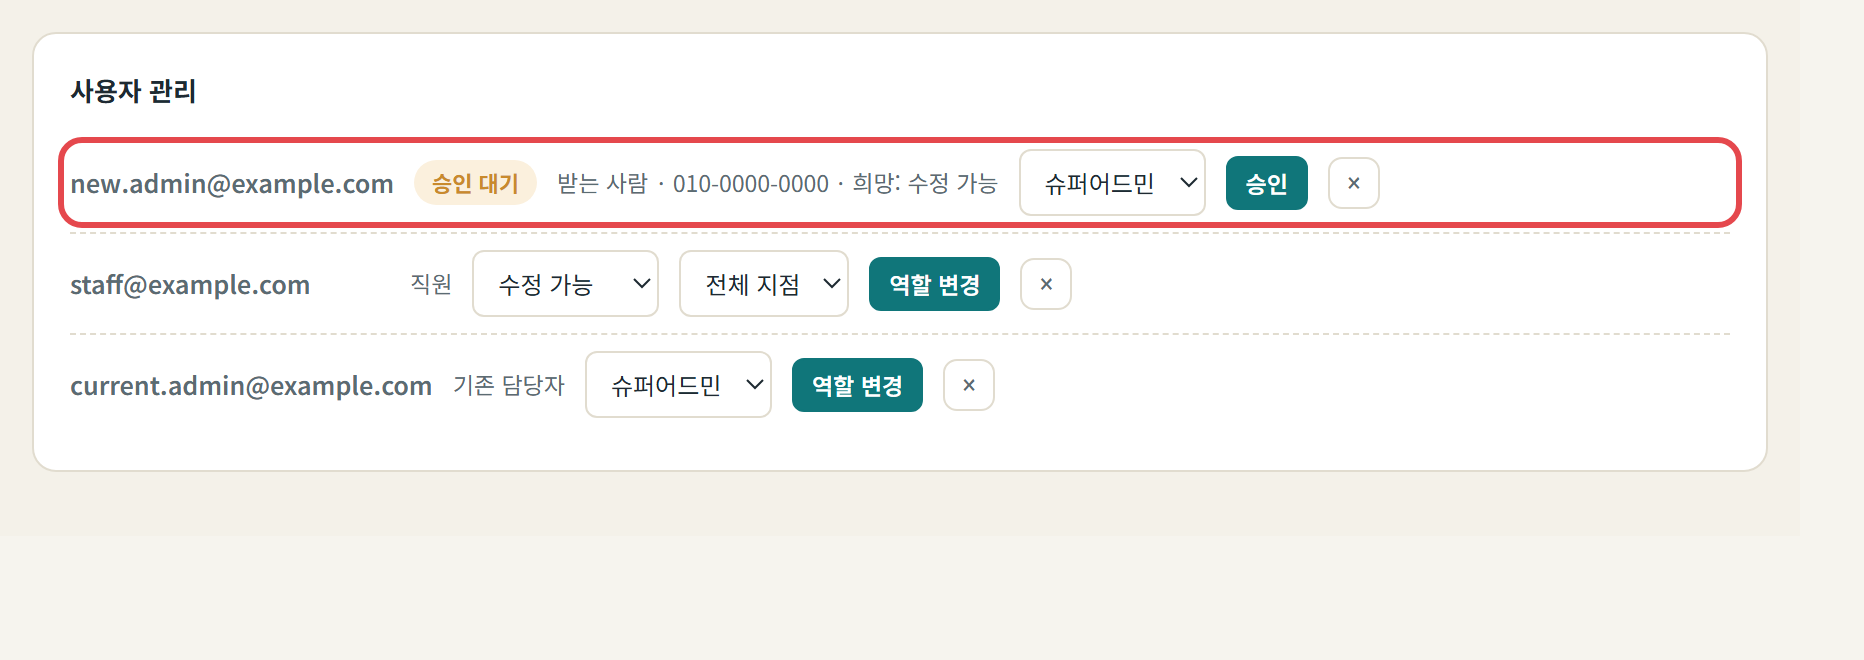
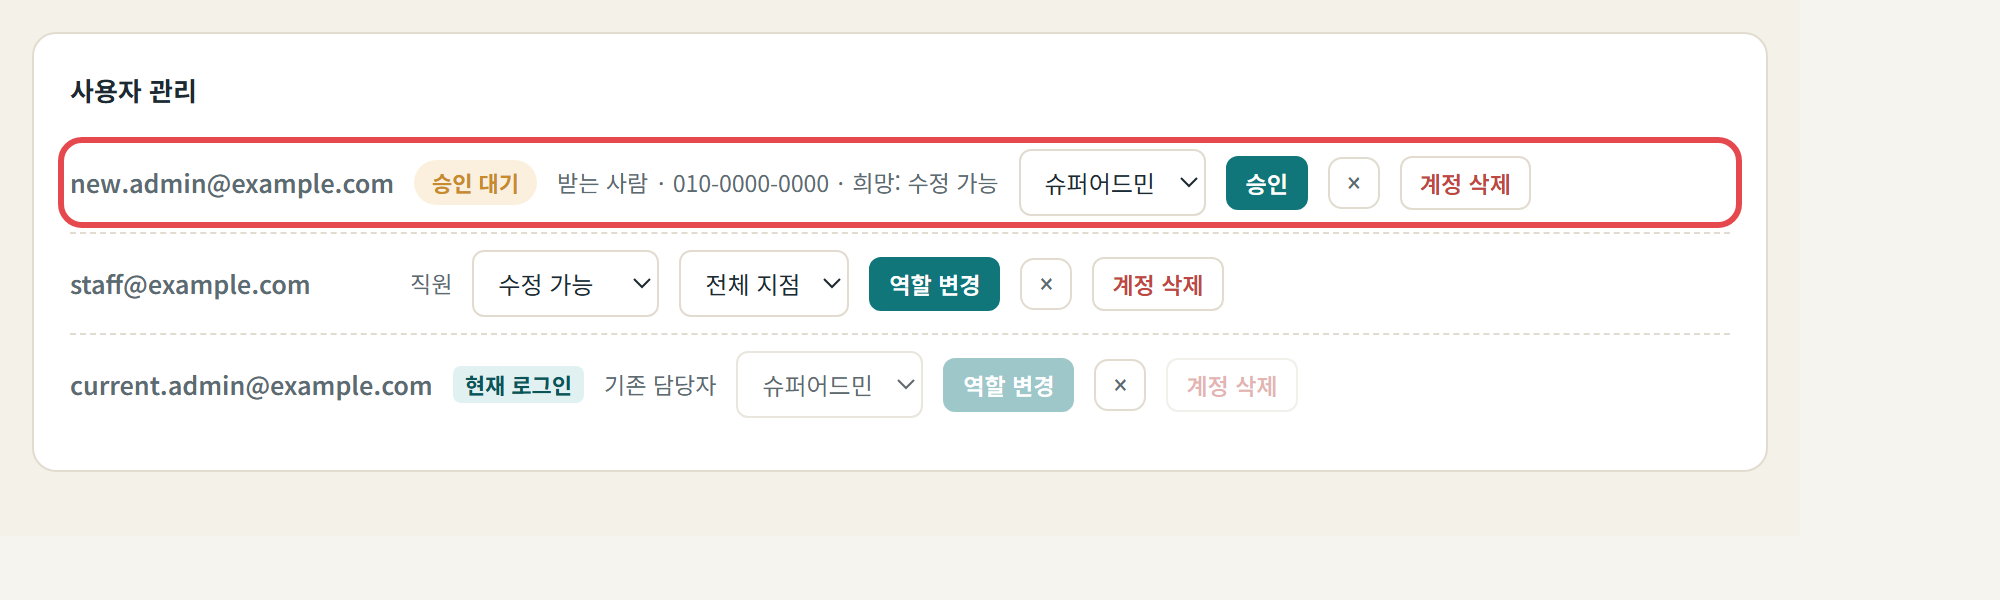
권한 이관 절차 페이지에 계정 삭제·본인 계정 잠금 안내 추가
- 4단계: 계정 삭제(사용자 목록 삭제 후 Firebase 콘솔에서 로그인 계정 삭제), 현재 로그인 계정 잠금 설명
- 6단계: 기존 담당자 정리에 계정 삭제 추가, 본인 계정은 받는 사람 계정으로 처리
- 사용자 관리 화면 사진을 새 화면(계정 삭제 버튼, 현재 로그인 표시)으로 교체

diff --git a/handover/index.html b/handover/index.html
@@ -231,7 +231,7 @@ if(/\/handover$/.test(location.pathname)) location.replace(location.pathname + '
     <p class="lead">기존 담당자가 받는 사람의 계정 요청을 슈퍼어드민으로 승인합니다. 슈퍼어드민만 관리자 설정과 사용자 관리를 쓸 수 있습니다.</p>
     <p>위쪽의 "관리자 설정"(첫 사진)을 누르고, 사용자 관리에서 받는 사람 줄의 역할을 "슈퍼어드민"으로 바꿔 승인합니다(둘째 사진).</p>
     <figure><img src="img/app.png" alt="위쪽의 관리자 설정 버튼" width="1400" height="420" loading="lazy"><figcaption>위쪽의 관리자 설정 버튼</figcaption></figure>
-    <figure><img src="img/users.png" alt="사용자 관리에서 슈퍼어드민으로 승인" width="932" height="330" loading="lazy"><figcaption>사용자 관리에서 역할을 슈퍼어드민으로 고르고 승인</figcaption></figure>
+    <figure><img src="img/users.png" alt="사용자 관리에서 슈퍼어드민으로 승인" width="1000" height="300" loading="lazy"><figcaption>사용자 관리에서 역할을 슈퍼어드민으로 고르고 승인</figcaption></figure>
     <ol>
       <li><span class="who">기존 담당자</span>대시보드 → 관리자 설정 → 사용자 관리 → "승인 대기"인 받는 사람 이메일 줄에서 역할 "슈퍼어드민" 선택 → 승인</li>
       <li><span class="who">받는 사람</span>다시 로그인해 위쪽에 관리자 설정 버튼이 보이는지 확인합니다. 관리자 설정 → 데이터 로딩 상태의 "권한"이 <code>superadmin</code>이면 됩니다.</li>
@@ -247,7 +247,8 @@ if(/\/handover$/.test(location.pathname)) location.replace(location.pathname + '
         </tbody>
       </table>
     </div>
-    <p>사용자 관리의 × 버튼은 계정을 지우지 않고 "승인 대기"로 돌려 접근만 막습니다. 로그인 계정 자체를 지우려면 Firebase 콘솔 Authentication → Users에서 삭제합니다.</p>
+    <p>사용자 관리의 × 버튼은 계정을 지우지 않고 "승인 대기"로 돌려 접근만 막습니다. 계정을 없애려면 "계정 삭제"를 누릅니다. 대시보드 사용자 목록과 이메일 등록 정보가 지워지고, 이어서 뜨는 안내 창의 "Firebase 콘솔 열기"로 로그인 계정(Authentication → 사용자)도 삭제합니다. 콘솔에서 지우지 않으면 그 사람이 다시 로그인할 때 승인 대기로 다시 나타납니다.</p>
+    <p>로그인한 본인 줄에는 "현재 로그인" 표시가 붙고 역할 변경·차단·계정 삭제가 잠깁니다. 본인 계정은 다른 슈퍼어드민 계정으로 처리합니다.</p>
     <div class="note"><p>슈퍼어드민이 한 명도 남지 않으면 대시보드 안에서는 권한을 고칠 수 없습니다. 이때는 Firebase 콘솔 → Firestore Database → <code>users</code> → 해당 계정 문서의 <code>role</code> 값을 <code>superadmin</code>으로 직접 바꿉니다.</p></div>
   </section>
 
@@ -275,7 +276,7 @@ if(/\/handover$/.test(location.pathname)) location.replace(location.pathname + '
           <li>GitHub: <code>APP_BUILD</code>만 올린 작은 수정을 <code>main</code>에 올려, 열어 둔 대시보드에 30분 안에 "지금 새로고침" 안내가 뜬다.</li>
         </ul>
       </li>
-      <li>대시보드: 사용자 관리에서 기존 담당자 계정을 필요한 역할로 낮추거나 ×로 접근을 막습니다.</li>
+      <li>대시보드: 사용자 관리에서 기존 담당자 계정을 필요한 역할로 낮추거나, ×로 접근을 막거나, "계정 삭제"로 지웁니다. 로그인한 본인 계정은 잠겨 있으니 받는 사람 계정으로 처리합니다.</li>
       <li>Firebase: 사용자 및 권한에서 기존 담당자를 제거하거나 역할을 낮춥니다.</li>
       <li>GitHub: Monthliv 조직 People에서 기존 담당자를 제거하거나 Member로 낮춥니다. 저장소 Admin으로만 넘긴 경우 조직 Owner는 기존 담당자에게 남으니, 조직 Owner를 누가 맡을지 함께 정합니다.</li>
     </ol>
